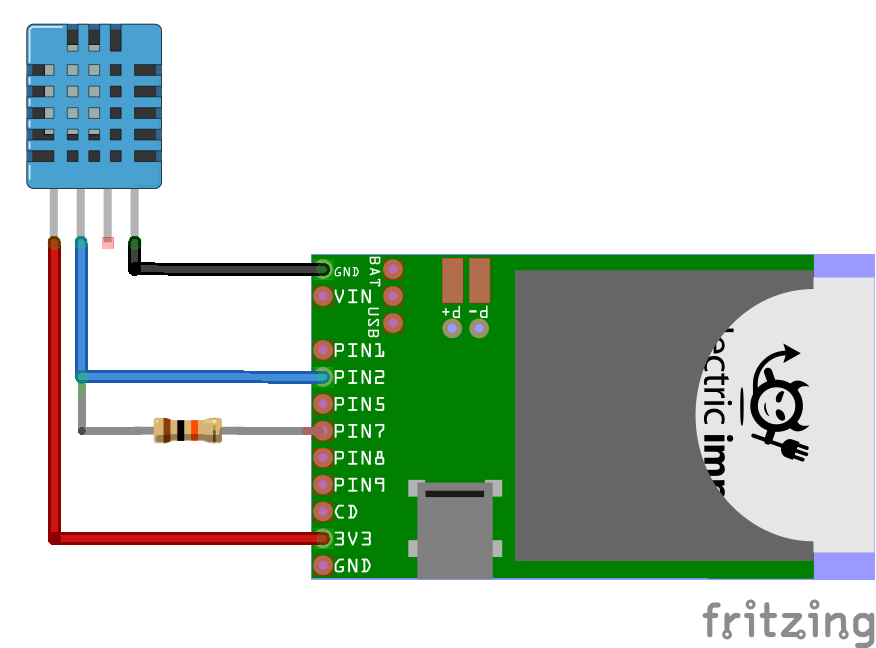
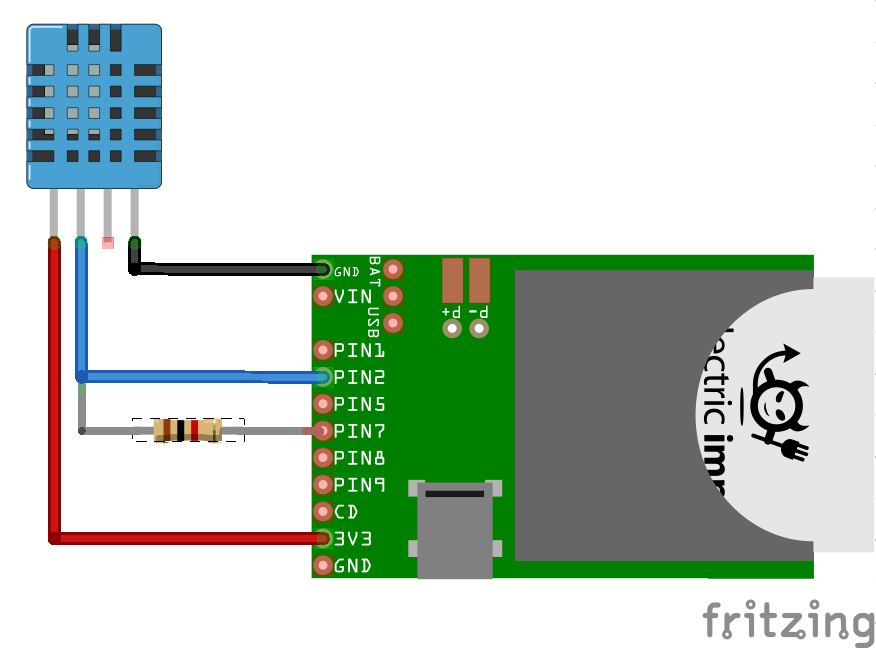
updated pullup resistor and start timing

diff --git a/hardware/DHT11/README.md b/hardware/DHT11/README.md
@@ -3,12 +3,12 @@ Driver for the DHT11 Temperature/Humidity Sensor
 
 Author: [Tom Byrne](https://github.com/tombrew/)
 
-Driver class for a [DHT11 temperature/humidity sensor](https://learn.adafruit.com/dht).
+Driver class for a [DHT11 temperature/humidity sensor](https://learn.adafruit.com/dht). This class is also compatible with the (RHT03 temperature/humidity sensor)[http://dlnmh9ip6v2uc.cloudfront.net/datasheets/Sensors/Weather/RHT03.pdf]
 
 Datasheets for this part are quite numerous and varied; [this one was useful](http://akizukidenshi.com/download/ds/aosong/DHT11.pdf) in writing this class.
 
 ## Hardware Setup
-The DHTxx family uses a proprietary 1-wire protocol. The imp can emulate this protocol with SPI, using both the MISO and MOSI lines. To use, tie MISO and MOSI together with a 10kΩ resistor, then tie MISO to the DATA line on the DHTxx.
+The DHTxx family uses a proprietary 1-wire protocol. The imp can emulate this protocol with SPI, using both the MISO and MOSI lines. To use, tie MISO and MOSI together with a 1kΩ resistor, then tie MISO to the DATA line on the DHTxx.
 
 ![Connecting a DHT11 to an Electric Imp Card](dht11_bb.png "Connection Diagram")
 

diff --git a/hardware/DHT22/README.md b/hardware/DHT22/README.md
@@ -5,10 +5,10 @@ Author: [Tom Byrne](https://github.com/tombrew/)
 
 Driver class for a [DHT22 temperature/humidity sensor](https://learn.adafruit.com/dht).
 
-Datasheets for this part are quite numerous and varied; [this one was useful](http://dlnmh9ip6v2uc.cloudfront.net/datasheets/Sensors/Weather/RHT03.pdf) in writing this class.
+Datasheets for this part are quite numerous and varied; [this one was useful](https://www.sparkfun.com/datasheets/Sensors/Temperature/DHT22.pdf) in writing this class.
 
 ## Hardware Setup
-The DHTxx family uses a proprietary 1-wire protocol. The imp can emulate this protocol with SPI, using both the MISO and MOSI lines. To use, tie MISO and MOSI together with a 10kΩ resistor, then tie MISO to the DATA line on the DHTxx.
+The DHTxx family uses a proprietary 1-wire protocol. The imp can emulate this protocol with SPI, using both the MISO and MOSI lines. To use, tie MISO and MOSI together with a 1kΩ resistor, then tie MISO to the DATA line on the DHTxx.
 
 ![Connecting a DHT22 to an Electric Imp Card](dht22_bb.png "Connection Diagram")
 
